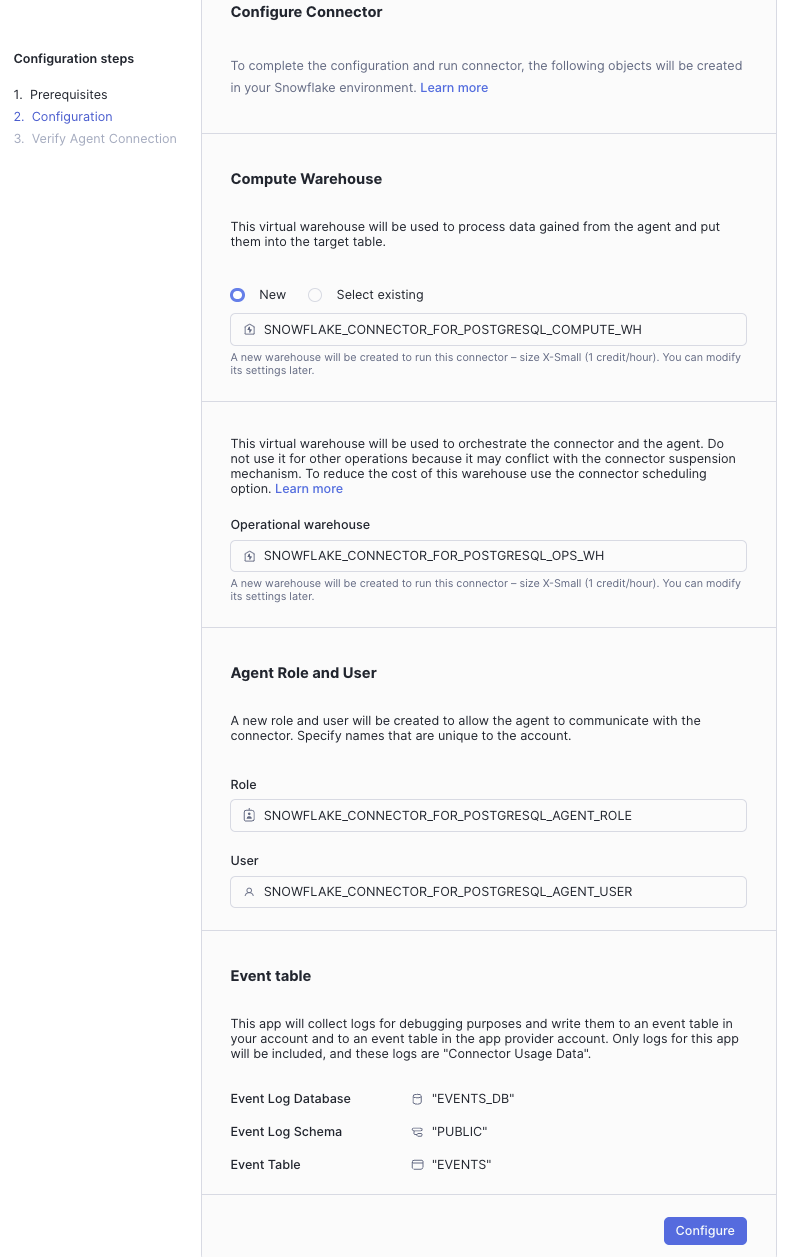
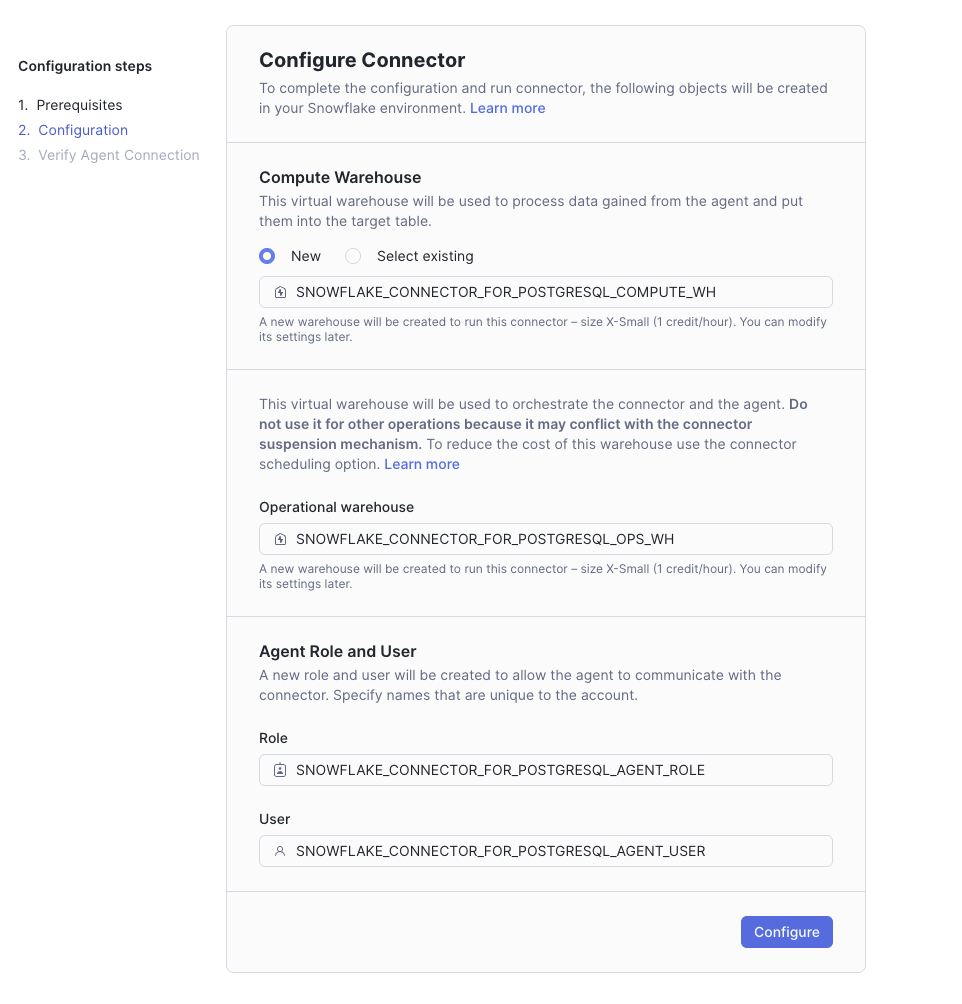
Update PostgreSQL CDC connector instructions and replace configuration image

diff --git a/site/sfguides/src/connectors_cdc_postgres/connectors_postgres_cdc.md b/site/sfguides/src/connectors_cdc_postgres/connectors_postgres_cdc.md
@@ -236,12 +236,12 @@ Navigate to [Snowsight](https://docs.snowflake.com/en/user-guide/ui-snowsight.ht
 <img src="assets/mark_all_done.png">
 
 4. Click **Start configuration**
-5. If you have Event Tables already activated in your account, the **Event Log Database**, **Event Log Schema**, and **Event Table** will populate automatically with what is active. The names of the **Event Log Database**, **Event Log Schema**, and **Event Table** could be slightly different from what is shown.
-6. On the **Configure Connector** screen, select **Configure**
+
+5. On the **Configure Connector** screen, the **Compute Warehouse**, **Operational warehouse**, **Agent Role** and **User** will be predefined. Select **Configure**
 
 <img src="assets/configure_connector.png">
 
-7. On the **Verify Agent Connection** screen select **Generate file** to download the Agent Configuration file. The downloaded file name should resemble **snowflake.json**. Save this file for use during the Agent configuration section.
+6. On the **Verify Agent Connection** screen select **Generate file** to download the Agent Configuration file. The downloaded file name should resemble **snowflake.json**. Save this file for use during the Agent configuration section.
 
 <img src="assets/generate_file.png">
 
